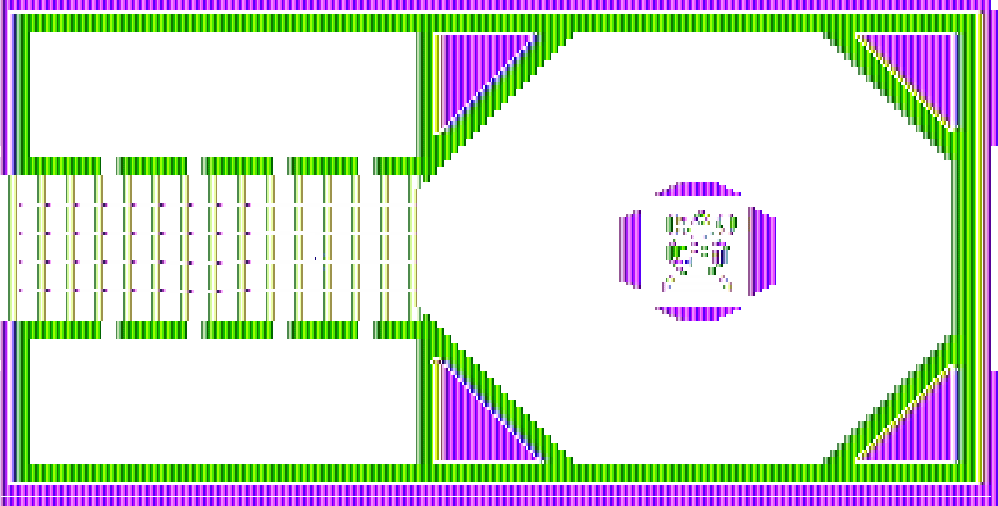
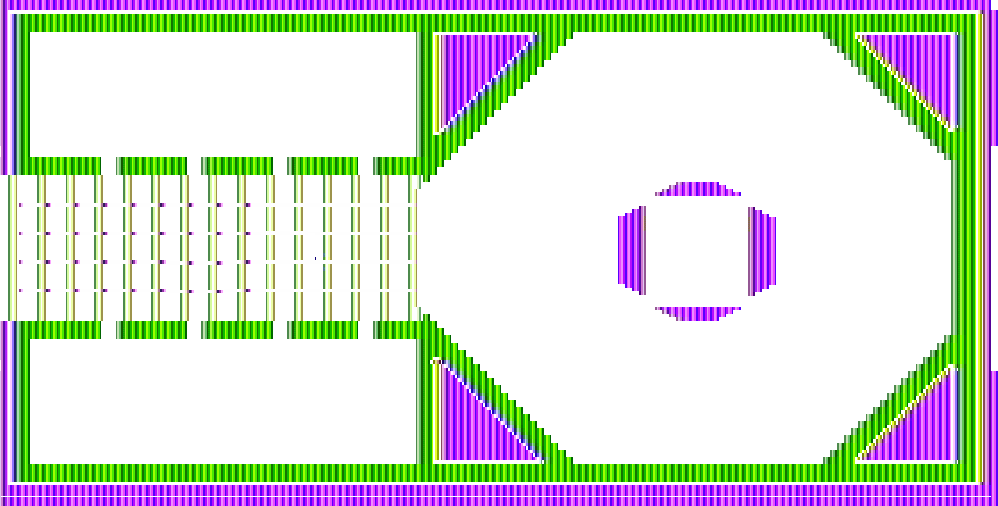
update

Changed region(s): [[0.6212, 0.415, 0.7455, 0.5929]]

diff --git a/js/game.js b/js/game.js
@@ -14,7 +14,7 @@ var config = {
       gravity: {
         y: 0,
       },
-      debug: true,
+      debug: false,
     },
   },
 };
@@ -217,6 +217,9 @@ function gameCreate() {
       } else if (bodyA.label == 'player' && bodyB.label == 'wall') {
         fryPlayer();
         resetWalls();
+      }
+      else if (bodyA.label == 'boss' && bodyB.label == 'bullet') {
+          console.log('game over!')
       }
       console.log(bodyA.label,bodyB.label);
     }
@@ -447,12 +450,21 @@ function buildLevel() {
   if(level==9)
   {
     level_9_top_wall = _scene.matter.add.sprite(width/2, 0, 'level 9 top wall');
+    level_9_top_wall2 = _scene.add.sprite(width/2, 2, 'level 9 top wall 2');
      level_9_top_wall.body.label = 'wall';
      level_9_top_wall.setCollisionCategory(cat1);
-     level_9_bottom_wall = _scene.matter.add.sprite(width/2, 386, 'level 9 bottom wall');
-    level_9_bottom_wall.body.label = 'wall';
+     level_9_bottom_wall = _scene.matter.add.sprite(width/2, 391, 'level 9 bottom wall');
+     level_9_bottom_wall2 = _scene.add.sprite(width/2, 398, 'level 9 bottom wall 2');
+     level_9_bottom_wall.body.label = 'wall';
     level_9_bottom_wall.setCollisionCategory(cat1);
     moveWall=0;
+  }
+  if(level==10)
+  {
+    boss = _scene.matter.add.sprite(width*.66, 200, 'boss');
+    boss.body.label = 'boss';
+    boss.setCollisionCategory(cat1);
+    boss.setFixedRotation();
   }
 }
 
@@ -512,8 +524,11 @@ function resetBorg(){
 
 function resetWalls(){
   level_9_top_wall.setPosition(width/2, 0);
-  level_9_bottom_wall.setPosition(width/2, 386);
-moveWall=0;
+  level_9_bottom_wall.setPosition(width/2, 391);
+  level_9_top_wall2.scaleY=1;
+  level_9_bottom_wall2.scaleY=1;
+  level_9_bottom_wall2.y=398;
+  moveWall=0;
 }
 
 function startBorg(){
@@ -571,7 +586,11 @@ if(level==9){
   if(moveWall>50)
 {
   level_9_top_wall.y+=5;
+  level_9_top_wall2.scaleY+=2.5;
+  
   level_9_bottom_wall.y-=5;
+  level_9_bottom_wall2.y-=2.5;
+ level_9_bottom_wall2.scaleY+=2.5;
     moveWall=0;
 }
 }

diff --git a/js/preload.js b/js/preload.js
@@ -23,7 +23,10 @@ function preload() {
   this.load.image('level 9', 'level_9.png');
   this.load.image('level 9 top wall', 'level_9_top_wall.png');
   this.load.image('level 9 bottom wall', 'level_9_bottom_wall.png');
+  this.load.image('level 9 top wall 2', 'level_9_top_wall2.png');
+  this.load.image('level 9 bottom wall 2', 'level_9_bottom_wall2.png');
   this.load.image('level 10', 'level_10.png');
+  this.load.image('boss', 'boss.png');
   this.load.spritesheet(
     'title',
     'title_low_low_res.png', {

diff --git a/js/boot.js b/js/boot.js
@@ -126,6 +126,7 @@ var arrowStats = [
   }  
   ];
   var arrowDown=false;
-  var level_9_topwall;
+  var level_9_top_wall;
   var level_9_bottom_wall;
 var moveWall;
+var boss;
